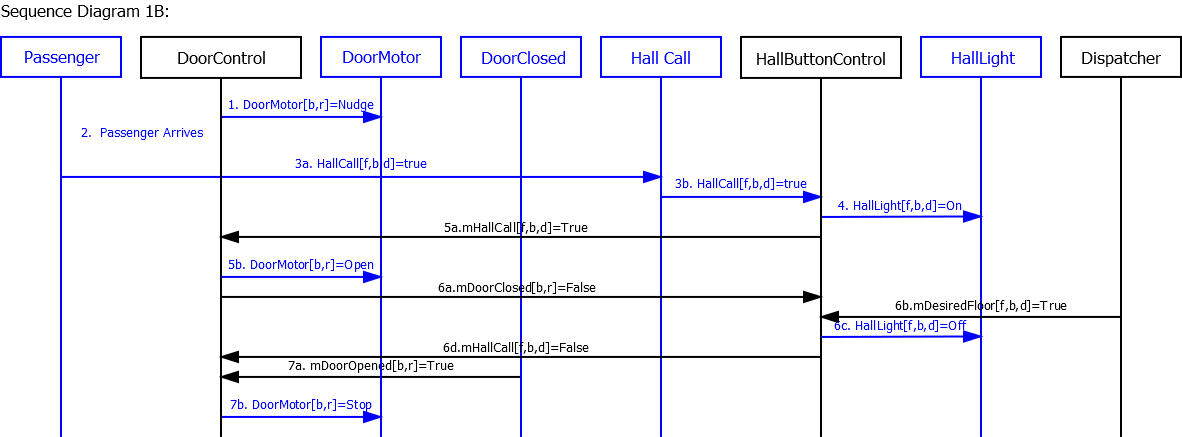
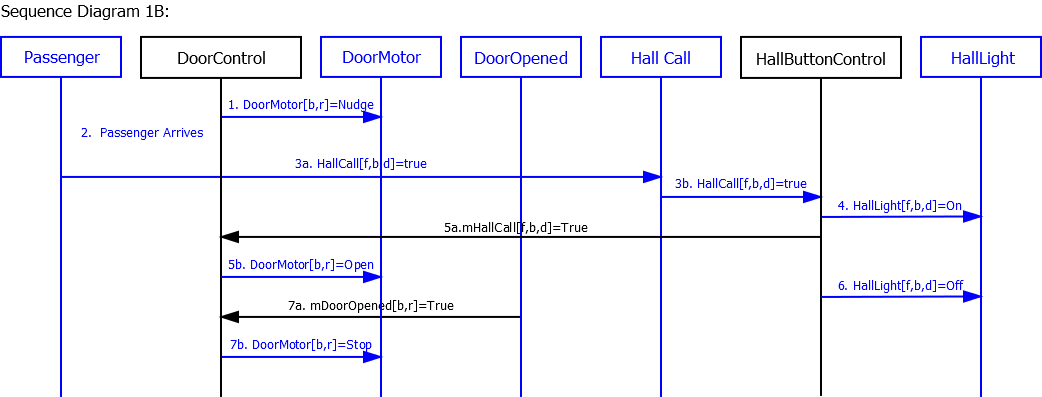
Added 3b and 1b integration tests.  Also changed the scenario/SD for 1b because it was wrong for the current dispatcher

Changed region(s): [[0.0, 0.0, 1.0, 1.0]]

diff --git a/portfolio_template/scen_sd/scen_sd.html b/portfolio_template/scen_sd/scen_sd.html
@@ -151,13 +151,11 @@
         <li>Door[<b>b</b>,<b>r</b>] starts closing. </li>
         <li>Passenger arrives at a hallway [<b>f</b>, <b>b</b>] to use
           the elevator, with intent to travel in direction <b>d</b>. </li>
-        <li>Passenger presses hall call button before doors are fully
-          closed, but after doors are too fully closed for passenger to
-          enter. </li>
+        <li>Passenger presses hall call button before doors are too fully
+          closed for passenger to enter. </li>
         <li>Hall button lights up. </li>
         <li>Doors start reopening.</li>
-        <li>Hall Light is unlit.<br>
-        </li>
+        <li>Hall button is unlit.</li>
         <li>Doors open completely.&nbsp; </li>
       </ol>
       <h3> Post-Conditions: </h3>
